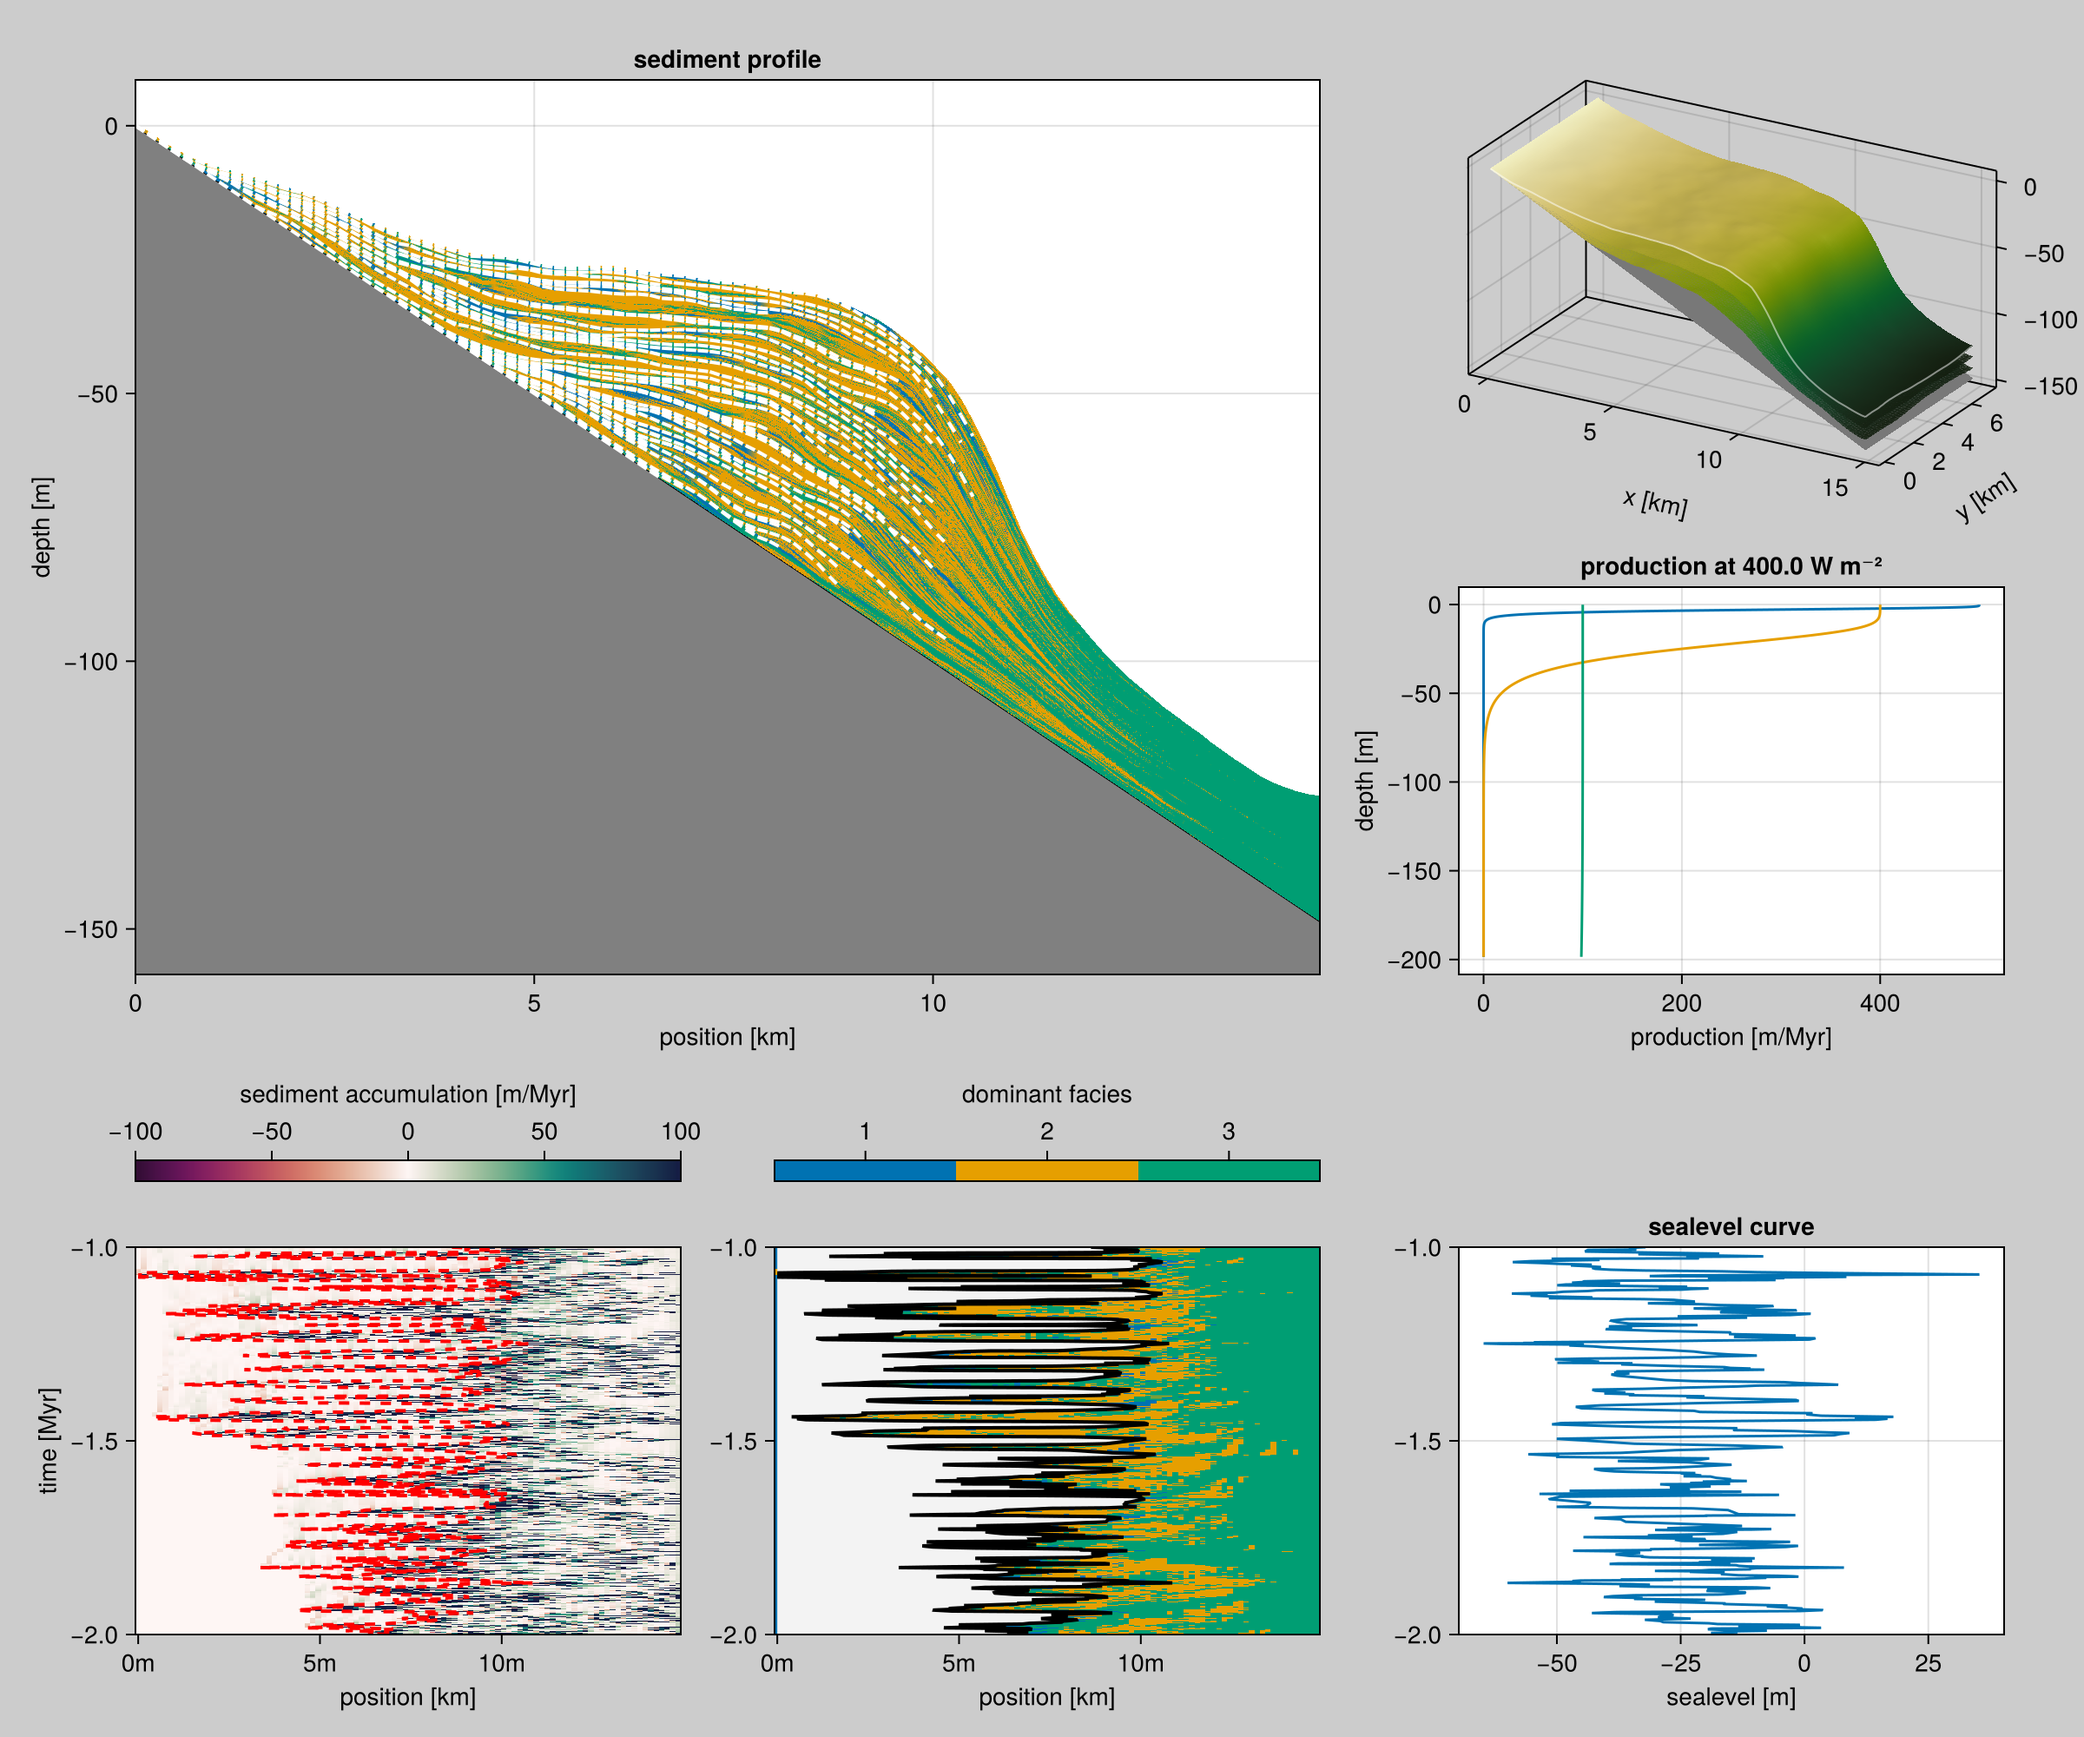
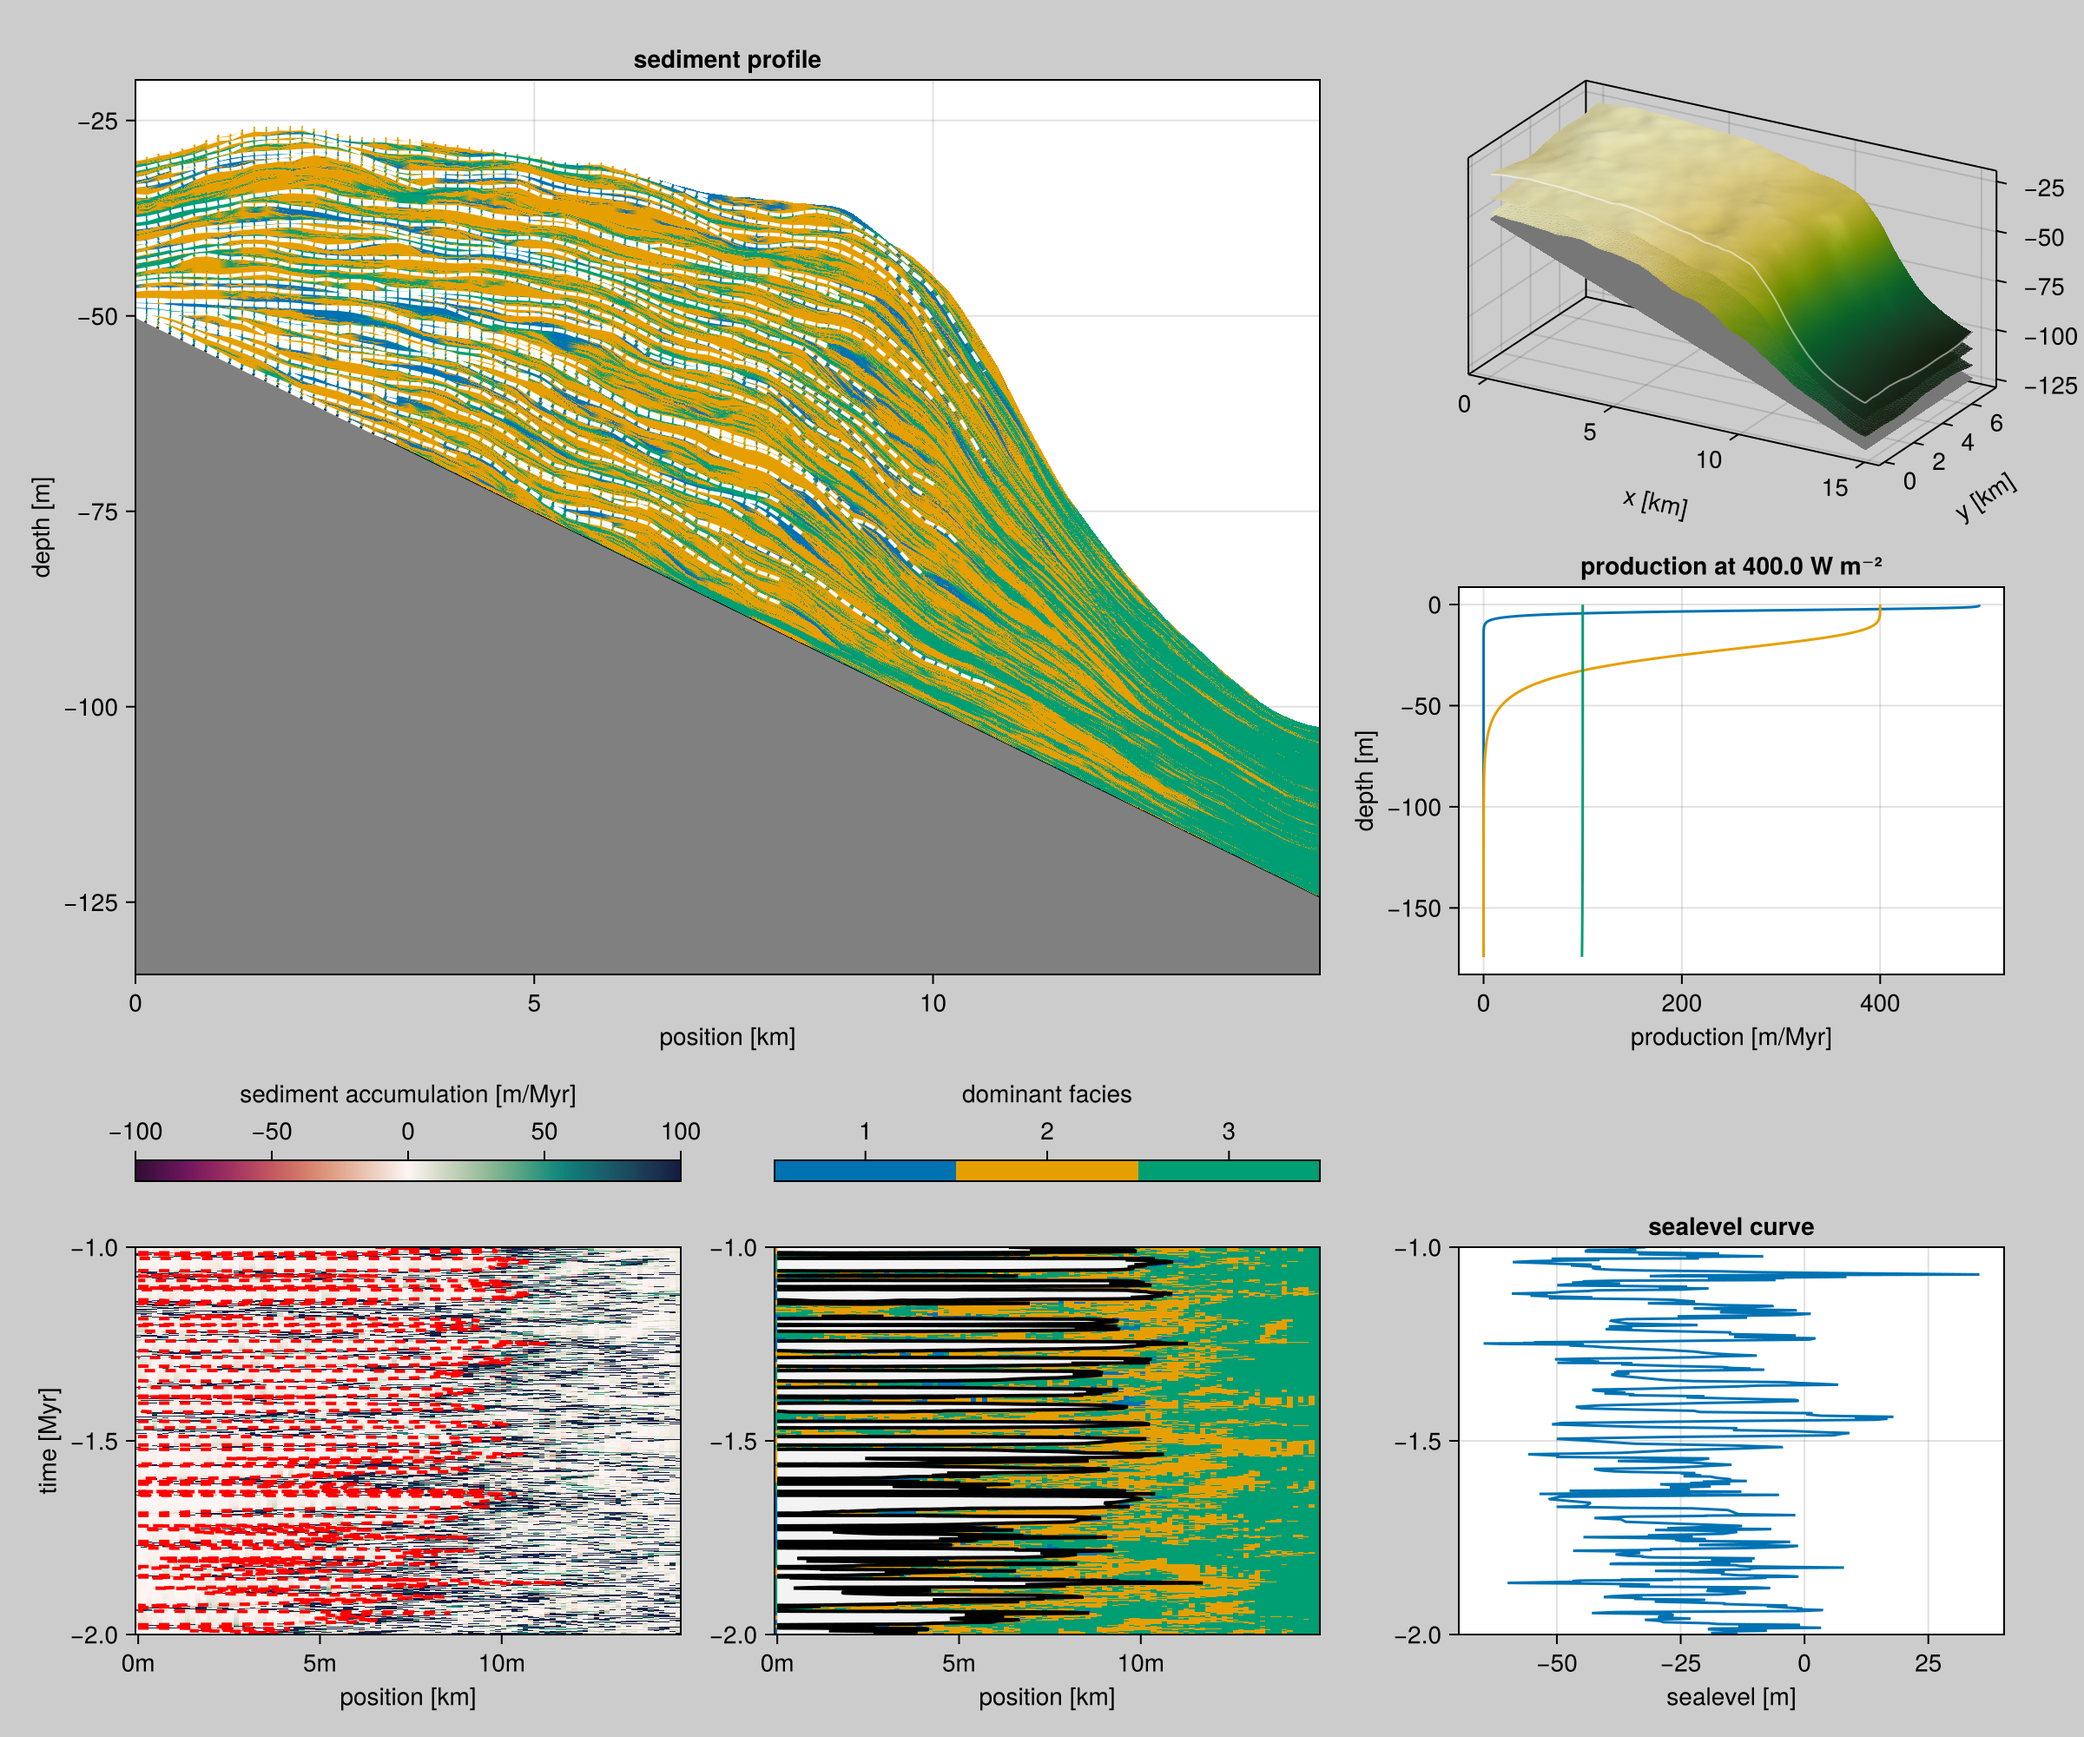
change parameters of lisiecki example slightly

diff --git a/docs/src/cases/tabular-sea-level.md b/docs/src/cases/tabular-sea-level.md
@@ -112,7 +112,7 @@ const INPUT = ALCAP.Input(
     box=Box{Shelf}(grid_size=(100, 50), phys_scale=150.0u"m"),
     time=TIME_PROPERTIES,
     ca_interval=1,
-    bedrock_elevation=(x, y) -> -x / 150.0 - 50.0u"m",
+    bedrock_elevation=(x, y) -> -x / 200.0 - 100.0u"m",
     sea_level=sea_level(),
     subsidence_rate=50.0u"m/Myr",
     disintegration_rate=50.0u"m/Myr",
